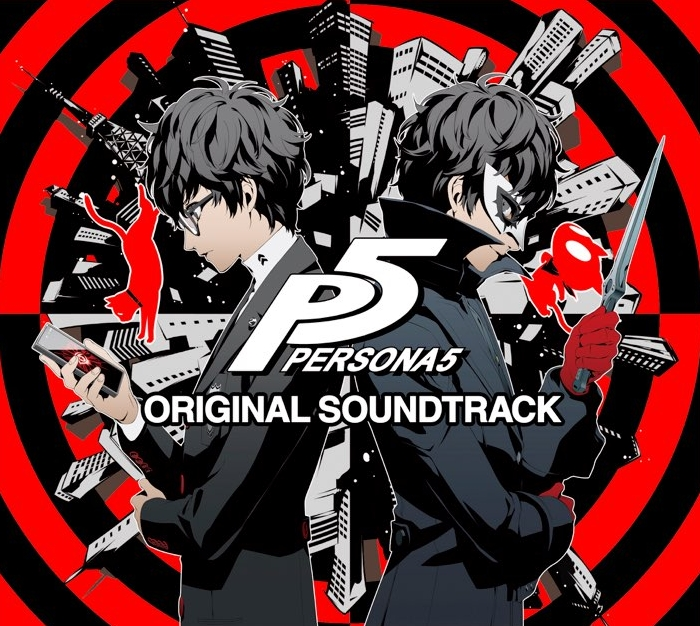
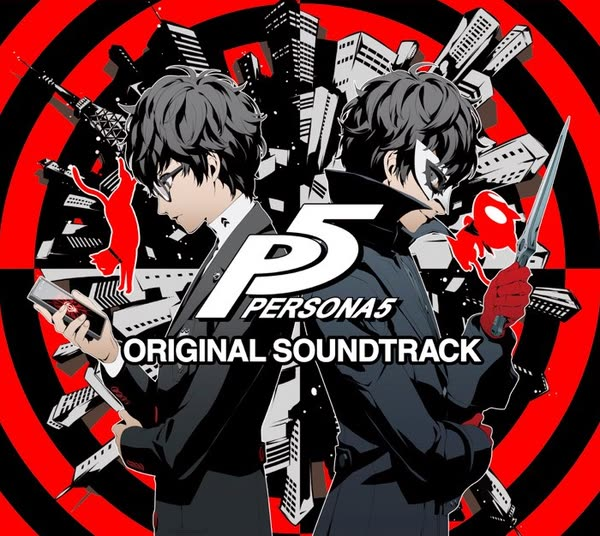
perf: 封面/头像/看板娘贴图压缩，CSP 转正式生效
体积（本地静态资源）：
- 封面 10.3MB → 1.6MB（21 个：PNG 转 JPEG、最长边限制 600px）
- 头像 1.96MB GIF → 576KB 动态 WebP（q75，画质更好；旧 GIF 可从 git 恢复）
- 看板娘贴图 5.5MB(2048²) → 1.4MB(768²)，画布只有 200×200，肉眼无差别
- pio 目录 5.7MB → 1.7MB；音乐目录已在前一提交压到 86MB

CSP：Report-Only → 正式生效，白名单逐项核对过构建产物
- 新增 img-src blob:（Fancybox 用 createObjectURL 处理 SVG，缺了会坏灯箱）
- 新增 'wasm-unsafe-eval'（Pagefind 站内搜索用 WebAssembly）
- 新增 worker-src 'self' blob:（樱花特效 Web Worker）
- media-src https:（首页远程视频）、img-src https:（远程随机图 API）

其它：
- Worker 里封面缓存提到 7 天（歌单封面已带 ?v= 内容哈希）
- compress-music 脚本扩展 --covers/--all，支持封面压缩与封面哈希
- 歌单 24 处地址更新为带内容哈希

diff --git a/src/config/profileConfig.ts b/src/config/profileConfig.ts
@@ -3,14 +3,15 @@ import type { ProfileConfig } from "../types/profileConfig";
 export const profileConfig: ProfileConfig = {
 	// 头像
 	// 图片路径支持三种格式：
-	// 1. public 目录（以 "/" 开头，不优化）："/assets/images/avatar-zhi.gif"
+	// 1. public 目录（以 "/" 开头，不优化）："/assets/images/avatar-zhi.webp"
 	// 2. src 目录（不以 "/" 开头，自动优化但会增加构建时间，推荐）："assets/images/avatar.avif"
 	// 3. 远程 URL："https://example.com/avatar.jpg"
-	// 注意：动图（GIF）必须放在 public 并用 "/" 开头的路径，
-	//       走 src 的优化管线会被转成静态 WebP、动画就没了。
-	// 现在的头像是一张 320×426 的 GIF 动图，放在 public/assets/images/avatar-zhi.gif；
+	// 注意：动图必须放在 public 并用 "/" 开头的路径，
+	//       走 src 的优化管线会被转成静态图、动画就没了。
+	// 现在是 320×426 的动态 WebP（576KB），比原来的 GIF（1.96MB）小 70% 且画质更好；
+	// 旧 GIF 如需恢复：git checkout 5c05ff5 -- public/assets/images/avatar-zhi.gif
 	// 想换回静态图可用 src/assets/images/avatar-zhi.png（改下面这行即可）。
-	avatar: "/assets/images/avatar-zhi.gif",
+	avatar: "/assets/images/avatar-zhi.webp",
 
 	// 名字（页脚版权、文章作者、OG 卡片等处都会用到）
 	name: "栀海",
